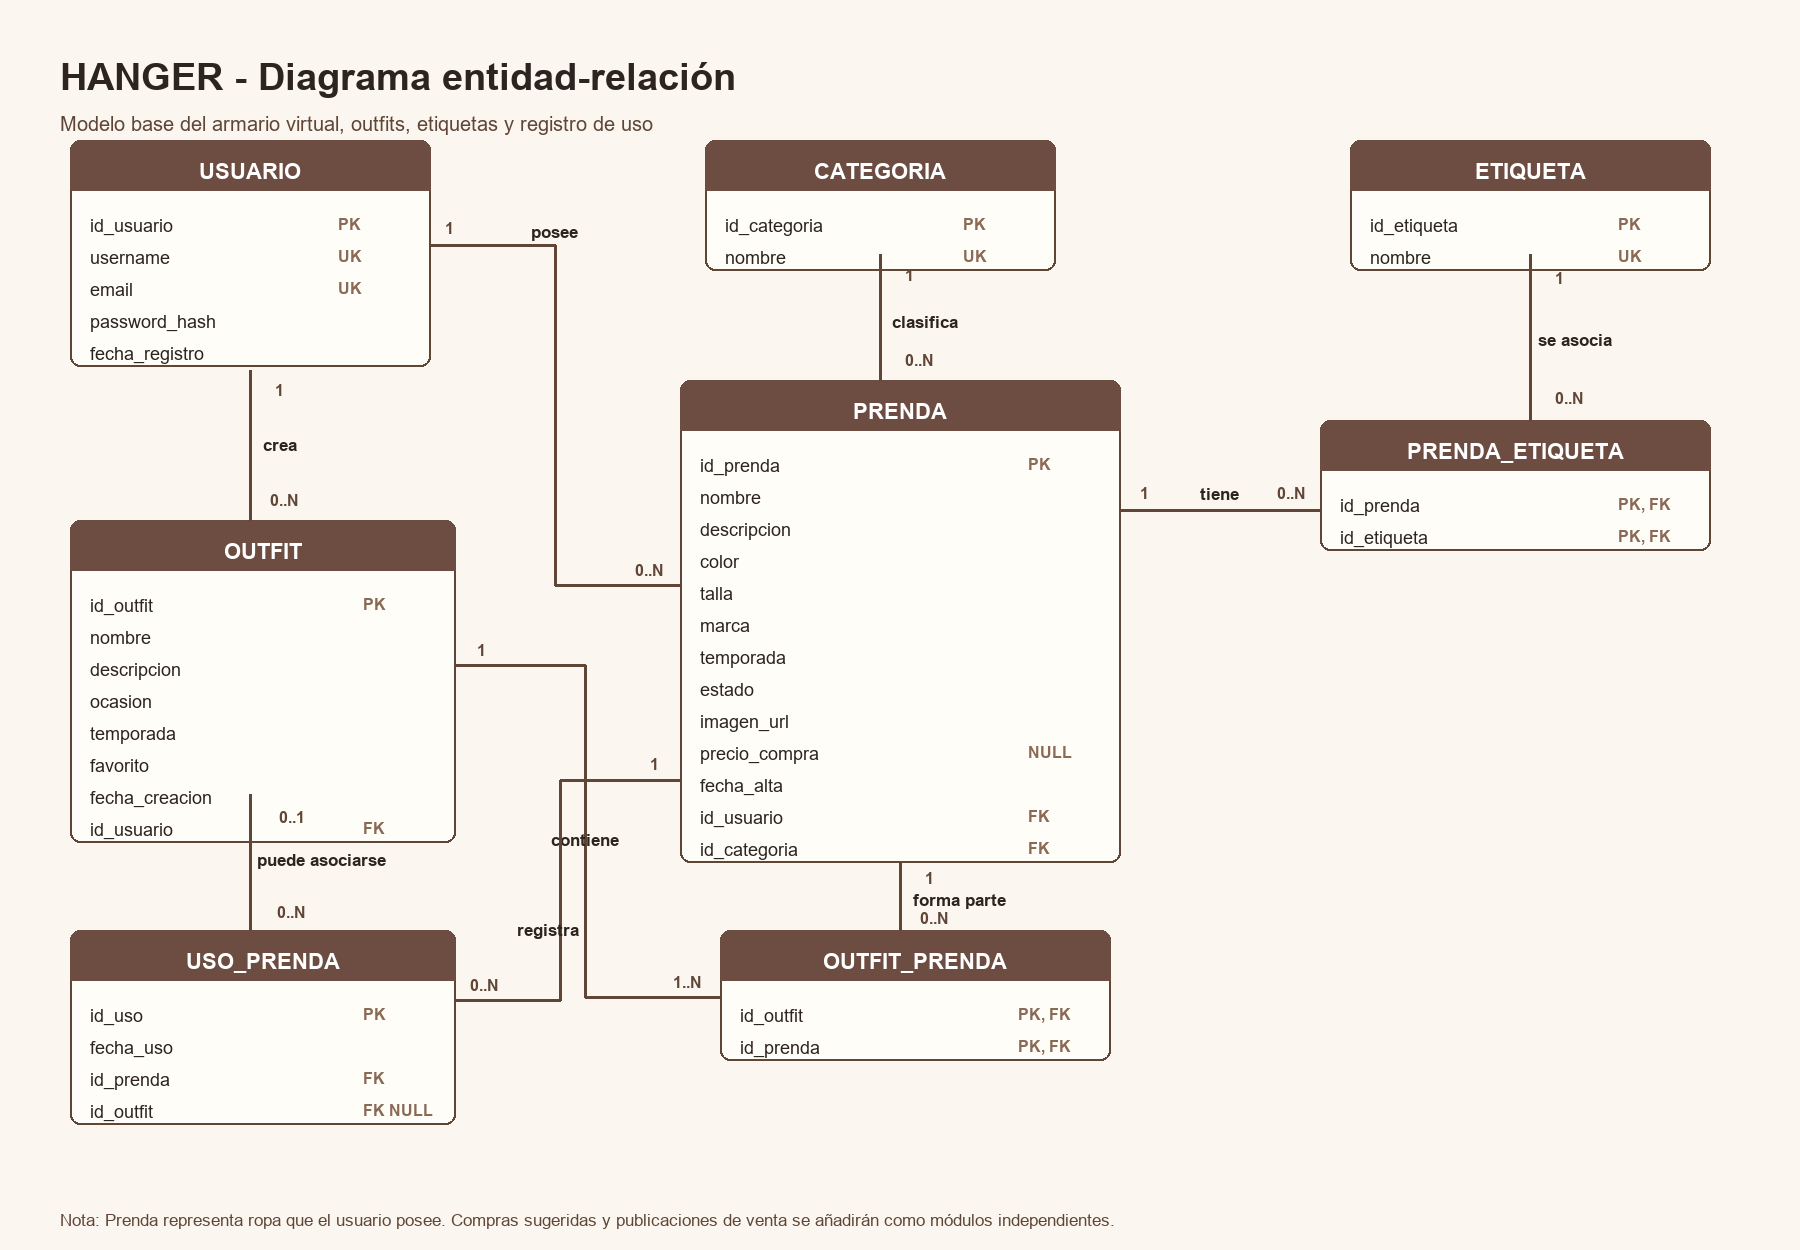
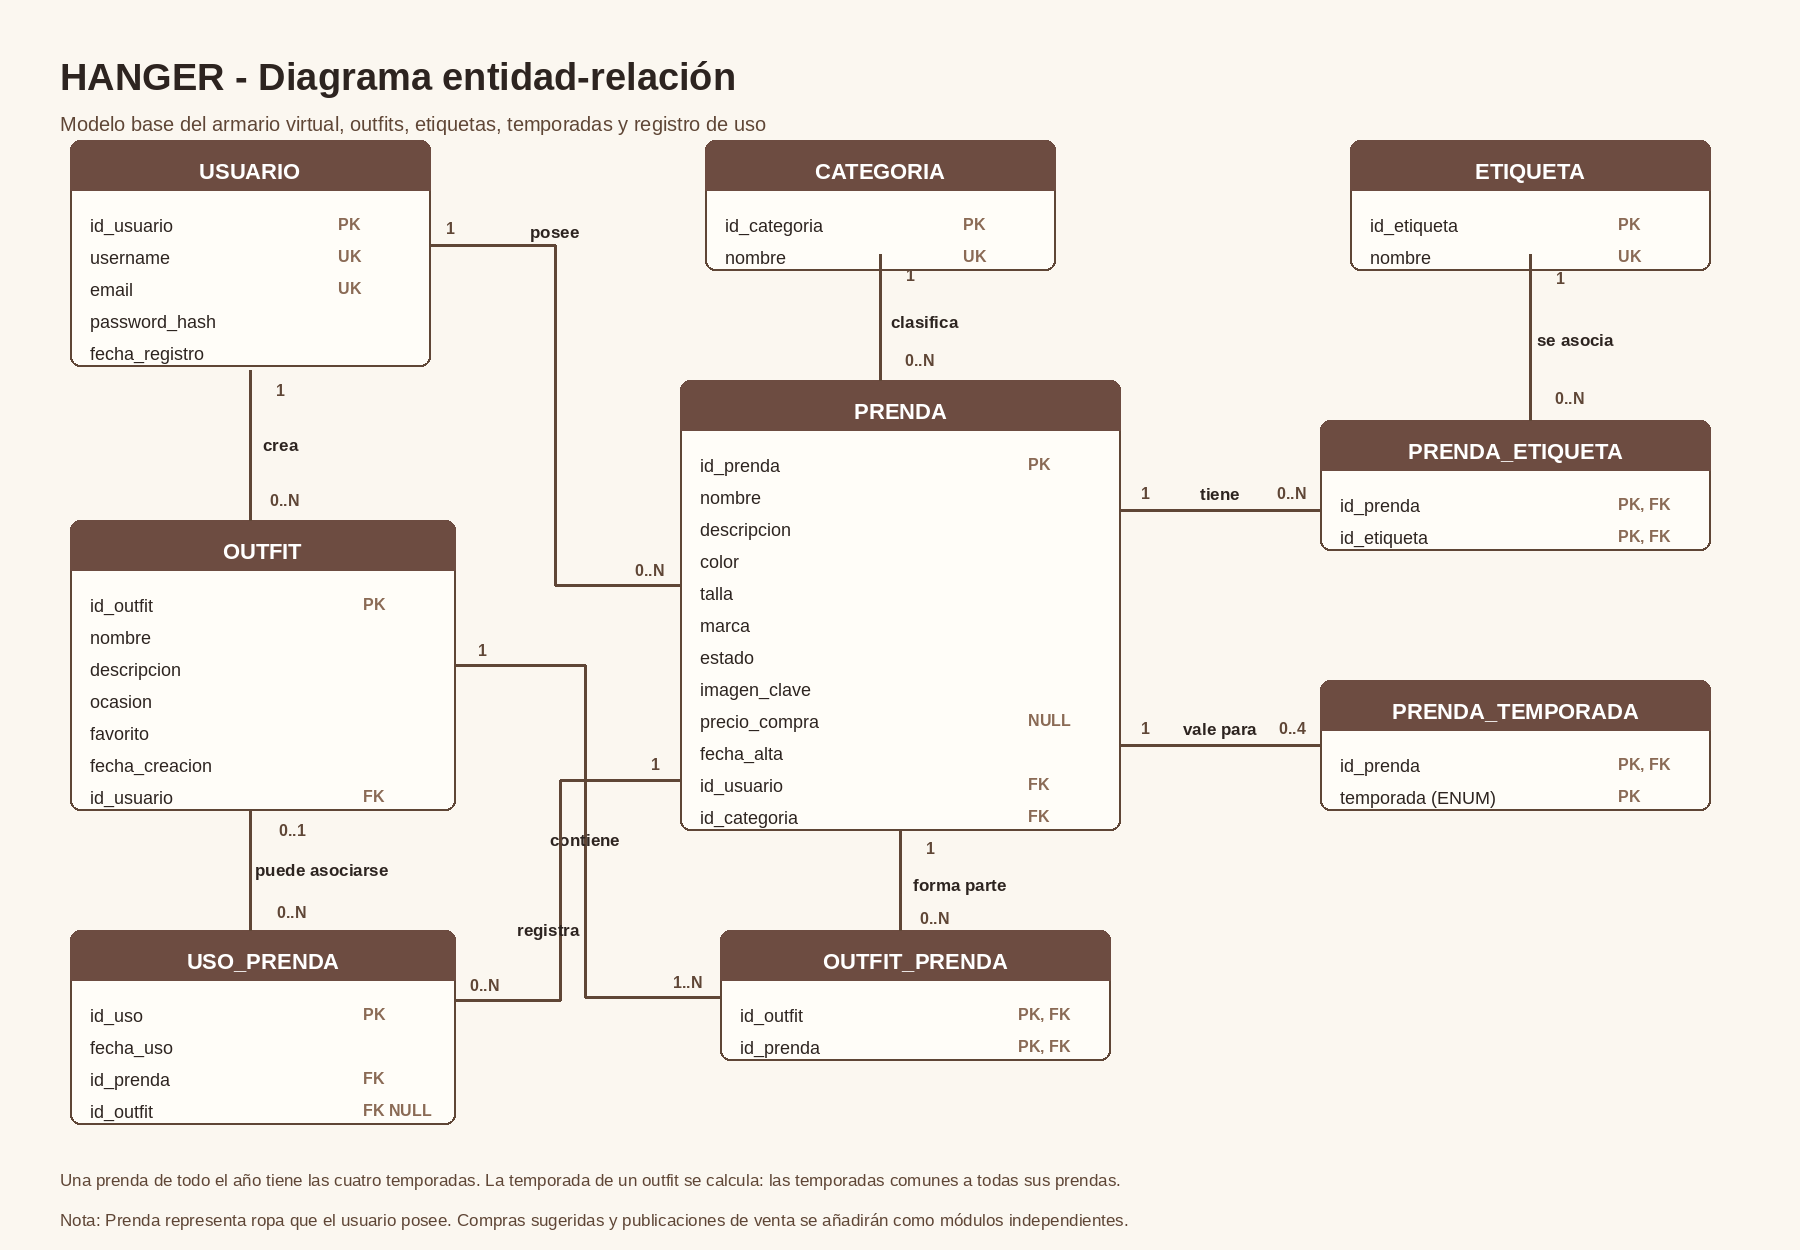
Modelo de 9 tablas, plan de sprints, licencia MIT y wireframes
- schema.sql: tabla prenda_temporada (una prenda, varias temporadas) e imagen_clave para el almacenamiento S3
- Diagrama E-R actualizado
- README: planificación en 10 sprints (S1-S10, hasta el 02/05/2027) y estado real
- LICENSE: MIT
- docs/WIREFRAMES.png: wireframes de las seis pantallas principales

Claude-Session: https://claude.ai/code/session_019UrWxwotN8N7QGeZR2vZGe

diff --git a/README.md b/README.md
@@ -29,7 +29,7 @@ Mucha gente acumula ropa que apenas usa, compra por impulso y no recuerda todo l
 | Frontend | Ionic + Angular + Capacitor (APK Android y PWA) |
 | Backend | Spring Boot · API REST · JWT · Swagger/OpenAPI |
 | Base de datos | MySQL / MariaDB |
-| DevOps | Docker · GitHub Actions |
+| DevOps | Docker · GitHub Actions · MinIO (almacenamiento de imágenes compatible con S3) |
 | Gestión | Scrum (sprints de 2 semanas) · GitHub Projects |
 
 ## Arquitectura
@@ -58,29 +58,41 @@ Diagrama completo: [`docs/DIAGRAMA_ARQUITECTURA.png`](docs/DIAGRAMA_ARQUITECTURA
 
 ## Modelo de datos
 
-Ocho tablas: `usuarios`, `categorias`, `prendas`, `etiquetas`, `prenda_etiqueta`, `outfits`, `outfit_prenda` y `uso_prenda`.
+Nueve tablas: `usuarios`, `categorias`, `prendas`, `prenda_temporada`, `etiquetas`, `prenda_etiqueta`, `outfits`, `outfit_prenda` y `uso_prenda`.
 
-La tabla `uso_prenda` guarda cada vez que se usa una prenda (y en qué outfit). Es la base de las estadísticas de uso y de la detección de ropa olvidada.
+Una prenda puede valer para varias temporadas: `prenda_temporada` guarda una fila por temporada (una prenda de todo el año tiene las cuatro). La temporada de un outfit no se guarda, se calcula a partir de sus prendas.
+
+La tabla `uso_prenda` guarda cada vez que se usa una prenda (y en qué outfit). Es la base de la detección de ropa olvidada.
 
 - Script: [`database/schema.sql`](database/schema.sql)
 - Diagrama E-R: [`docs/DIAGRAMA_ER_BBDD.png`](docs/DIAGRAMA_ER_BBDD.png)
 
 ## Planificación
 
-| Sprint | Contenido | Fechas |
+Scrum con sprints de 2 semanas lectivas. El desarrollo termina en abril; mayo se reserva para la memoria y la defensa.
+
+| Sprint | Fechas | Objetivo |
 | --- | --- | --- |
-| 0 | Requisitos, MVP, arquitectura y modelo de datos | Oct–nov 2026 ✅ |
-| 1 | Backend base, usuarios y JWT | Nov–dic 2026 |
-| 2 | Prendas y categorías | Dic 2026–ene 2027 |
-| 3 | App móvil base y armario virtual | Ene–feb 2027 |
-| 4 | Outfits, filtros y etiquetas | Feb–mar 2027 |
-| 5 | Uso de prendas, estadísticas y prendas poco usadas | Mar–abr 2027 |
-| 6 | Integración, pruebas y correcciones | Abr 2027 |
-| — | Memoria, presentación y defensa | Mayo 2027 |
+| 0 | Oct–nov 2026 | Requisitos, MVP, arquitectura y modelo de datos ✅ |
+| S1 | 16/11 – 29/11/2026 | Repositorio, Docker, CI y esqueleto de la API |
+| S2 | 30/11 – 13/12/2026 | Registro, login y JWT |
+| S3 | 14/12/2026 – 17/01/2027 | Cierre de autenticación y seguridad de rutas (incluye Navidad) |
+| S4 | 18/01 – 31/01/2027 | CRUD de categorías y prendas con temporadas |
+| S5 | 01/02 – 14/02/2027 | Imágenes en MinIO; app Ionic: login y navegación |
+| S6 | 15/02 – 28/02/2027 | Armario virtual: listado y ficha de prenda |
+| S7 | 01/03 – 14/03/2027 | Alta de prenda con foto; filtros |
+| S8 | 15/03 – 04/04/2027 | Outfits (incluye Semana Santa) |
+| S9 | 05/04 – 18/04/2027 | Registro de uso y prendas olvidadas |
+| S10 | 19/04 – 02/05/2027 | Despliegue en sandbox, pruebas y correcciones |
+| — | Mayo 2027 | Memoria final, presentación y defensa |
 
 ## Estado
 
-🟡 **Fase de diseño completada.** Documentación, arquitectura y modelo de datos listos; desarrollo del backend en curso.
+🟡 **Fase de diseño completada.** Documentación, arquitectura y modelo de datos listos. El código del backend y del frontend empieza en el Sprint S1 (16/11/2026).
+
+## Licencia
+
+[MIT](LICENSE)
 
 ## Documentación
 
